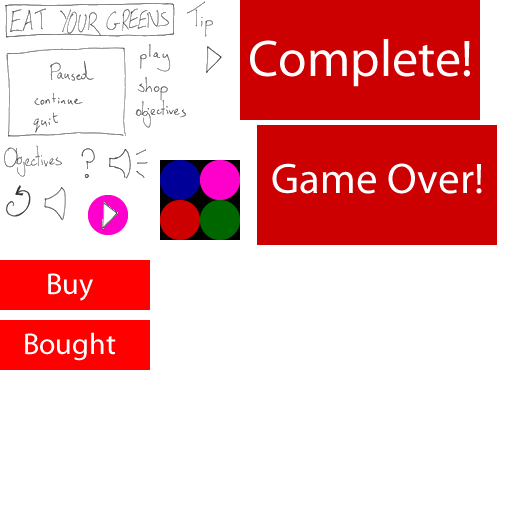
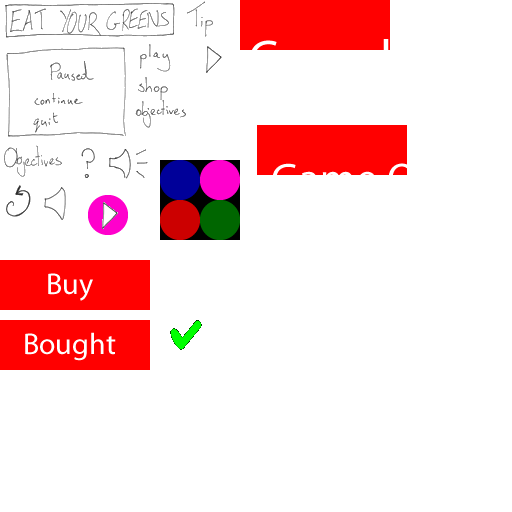
??

Changed region(s): [[0.4688, 0.0, 0.9688, 0.5], [0.3125, 0.625, 0.4062, 0.6875]]

diff --git a/src/com/rbennett485/dawnoftheveg/ObjectivesScreen.java b/src/com/rbennett485/dawnoftheveg/ObjectivesScreen.java
@@ -46,38 +46,47 @@ public class ObjectivesScreen extends GLScreen {
 			}
 		}
 	}
-	
-    @Override
-    public void present(float deltaTime) {
-        GL10 gl = glGraphics.getGL();        
-        gl.glClear(GL10.GL_COLOR_BUFFER_BIT);
-        guiCam.setViewportAndMatrices();
-                
+
+	@Override
+	public void present(float deltaTime) {
+		GL10 gl = glGraphics.getGL();        
+		gl.glClear(GL10.GL_COLOR_BUFFER_BIT);
+		guiCam.setViewportAndMatrices();
+
 		gl.glEnable(GL10.GL_TEXTURE_2D);
-       
-        gl.glEnable(GL10.GL_BLEND);
-        gl.glBlendFunc(GL10.GL_SRC_ALPHA, GL10.GL_ONE_MINUS_SRC_ALPHA);
-        
-        batcher.beginBatch(Assets.icons);          
-        batcher.drawSprite(400, 420, 68, 37, Assets.objectives);
-        batcher.drawSprite(780, 460, 40, 40, Assets.back);
-        batcher.endBatch();
-        
-        batcher.beginBatch(Assets.fontImage);
-        Assets.font.drawText(batcher, "1. Objective 1 here", 300, 300);
-        batcher.endBatch();
-        
-        gl.glDisable(GL10.GL_BLEND);
-    }
-    
+
+		gl.glEnable(GL10.GL_BLEND);
+		gl.glBlendFunc(GL10.GL_SRC_ALPHA, GL10.GL_ONE_MINUS_SRC_ALPHA);
+
+		batcher.beginBatch(Assets.icons);          
+		batcher.drawSprite(400, 420, 68, 37, Assets.objectives);
+		batcher.drawSprite(780, 460, 40, 40, Assets.back);
+		for(int i=0 ; i<3 ; i++) {
+			batcher.drawSprite(760, 360-140*i, 40, 40, Assets.tickBox);
+			if(Progress.objective[Progress.currentObjectiveSet][i]) 
+				batcher.drawSprite(760, 360-140*i, 40, 40, Assets.tickBox);
+		}
+		batcher.endBatch();
+
+		batcher.beginBatch(Assets.fontImage);
+		for(int i=0 ; i<3 ; i++) {
+			Assets.font.drawText(batcher, (i+1) +". " + Objectives.objectives[Progress.currentObjectiveSet][i][0], 100, 360-140*i);
+			Assets.font.drawText(batcher, Objectives.objectives[Progress.currentObjectiveSet][i][1], 100, 320-140*i);
+
+		}
+		batcher.endBatch();
+
+		gl.glDisable(GL10.GL_BLEND);
+	}
+
 	@Override
 	public void pause() {
 	}
-	
+
 	@Override
 	public void resume() {
 	}
-	
+
 	@Override 
 	public void dispose() {
 	}

diff --git a/src/com/rbennett485/dawnoftheveg/Progress.java b/src/com/rbennett485/dawnoftheveg/Progress.java
@@ -75,7 +75,7 @@ public class Progress {
 			}
 			for(int i=0 ; i<NUMBER_OF_OBJECTIVE_SETS ; i++) {
 				for(int j=0 ; j<NUMBER_OF_OBJECTIVES_PER_SET ; j++) {
-					out.write(Boolean.toString(objective[i][j]));
+					out.write(Boolean.toString(objective[i][j]));					
 					out.write("\n");
 				}
 			}

diff --git a/src/com/rbennett485/dawnoftheveg/tests/WorldTest.java b/src/com/rbennett485/dawnoftheveg/tests/WorldTest.java
@@ -36,7 +36,7 @@ public class WorldTest {
 	}
 	
 	@Test
-	public void test() {
+	public void updateTest() {
 		fail("Not yet implemented");
 	}
 
